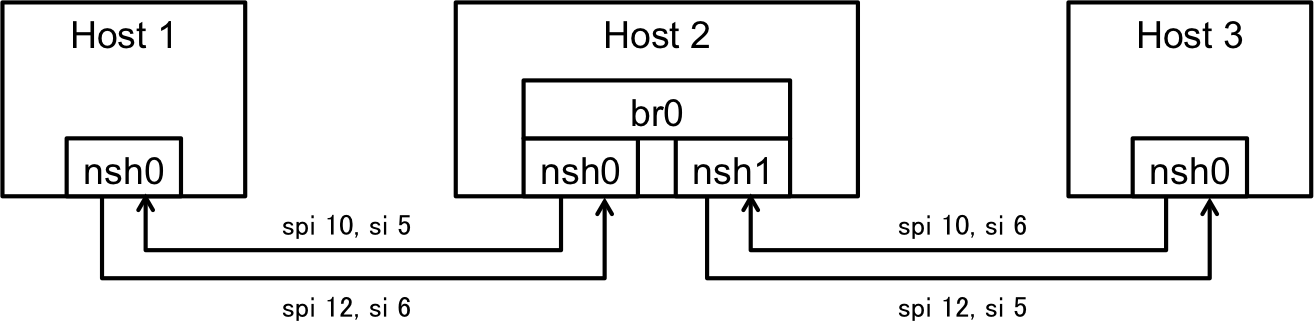
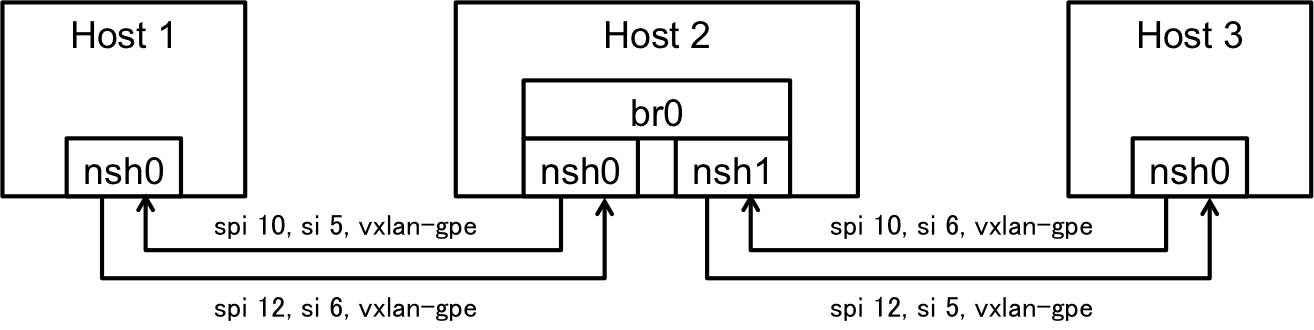
update README

diff --git a/README.md b/README.md
@@ -111,9 +111,7 @@ is not supported).  When NSH is encapsulated in Ethernet header,
 Ethertype is 0x894F. This number is assigned to Cisco vPath Network
 Service Header in [IEEE Ethertype
 assignment](http://standards-oui.ieee.org/ethertype/eth.txt), but used
-for NSH in the draft. By the way, mdtype and vni can be
-omitted. Default MD-type is 1 and vni is 0. Note that current
-implementation does not consider vxlan VNI value.
+for NSH in the draft.
 
 	 % ip nsh add spi 10 si 5 encap vxlan remote 10.0.0.2 vni 10
 	 % ip nsh add spi 11 si 4 mdtype 2 encap ether dst 08:00:27:93:f2:a7 link eth2
@@ -122,7 +120,10 @@ implementation does not consider vxlan VNI value.
 	 spi 10 si 5 mdtype 1 encap vxlan remote 10.0.0.2 vni 10
 	 %
 
-To delete mapping table entries, use `ip nsh del` with only `spi` and `si` arguments.
+By the way, mdtype and vni can be omitted. Default MD-type is 1 and
+vni is 0. Note that current implementation does not consider vxlan VNI
+value. To delete mapping table entries, use `ip nsh del` with only
+`spi` and `si` arguments.
 
 
 Finaly, interface RX should also be mapped to an other path. Serive path
@@ -135,8 +136,9 @@ is always unidirectional.
 	 spi 10 si 5 mdtype 1 remote 10.0.0.2 encap vxlan vni 10
 	 %
 
-Then, NSH packets with spi 12 and si 4 are received by nsh0 interface
-after decapsulation.
+Then, NSH packets with spi 12 and si 4 from networks over VXLAN-GPE or
+Ethernet or intra-host are received by nsh0 interface after
+decapsulation.
 
 [This pull request for tcpdump](https://github.com/the-tcpdump-group/tcpdump/pull/490)
 enables to display NSH over VXLAN-GPE packets.
